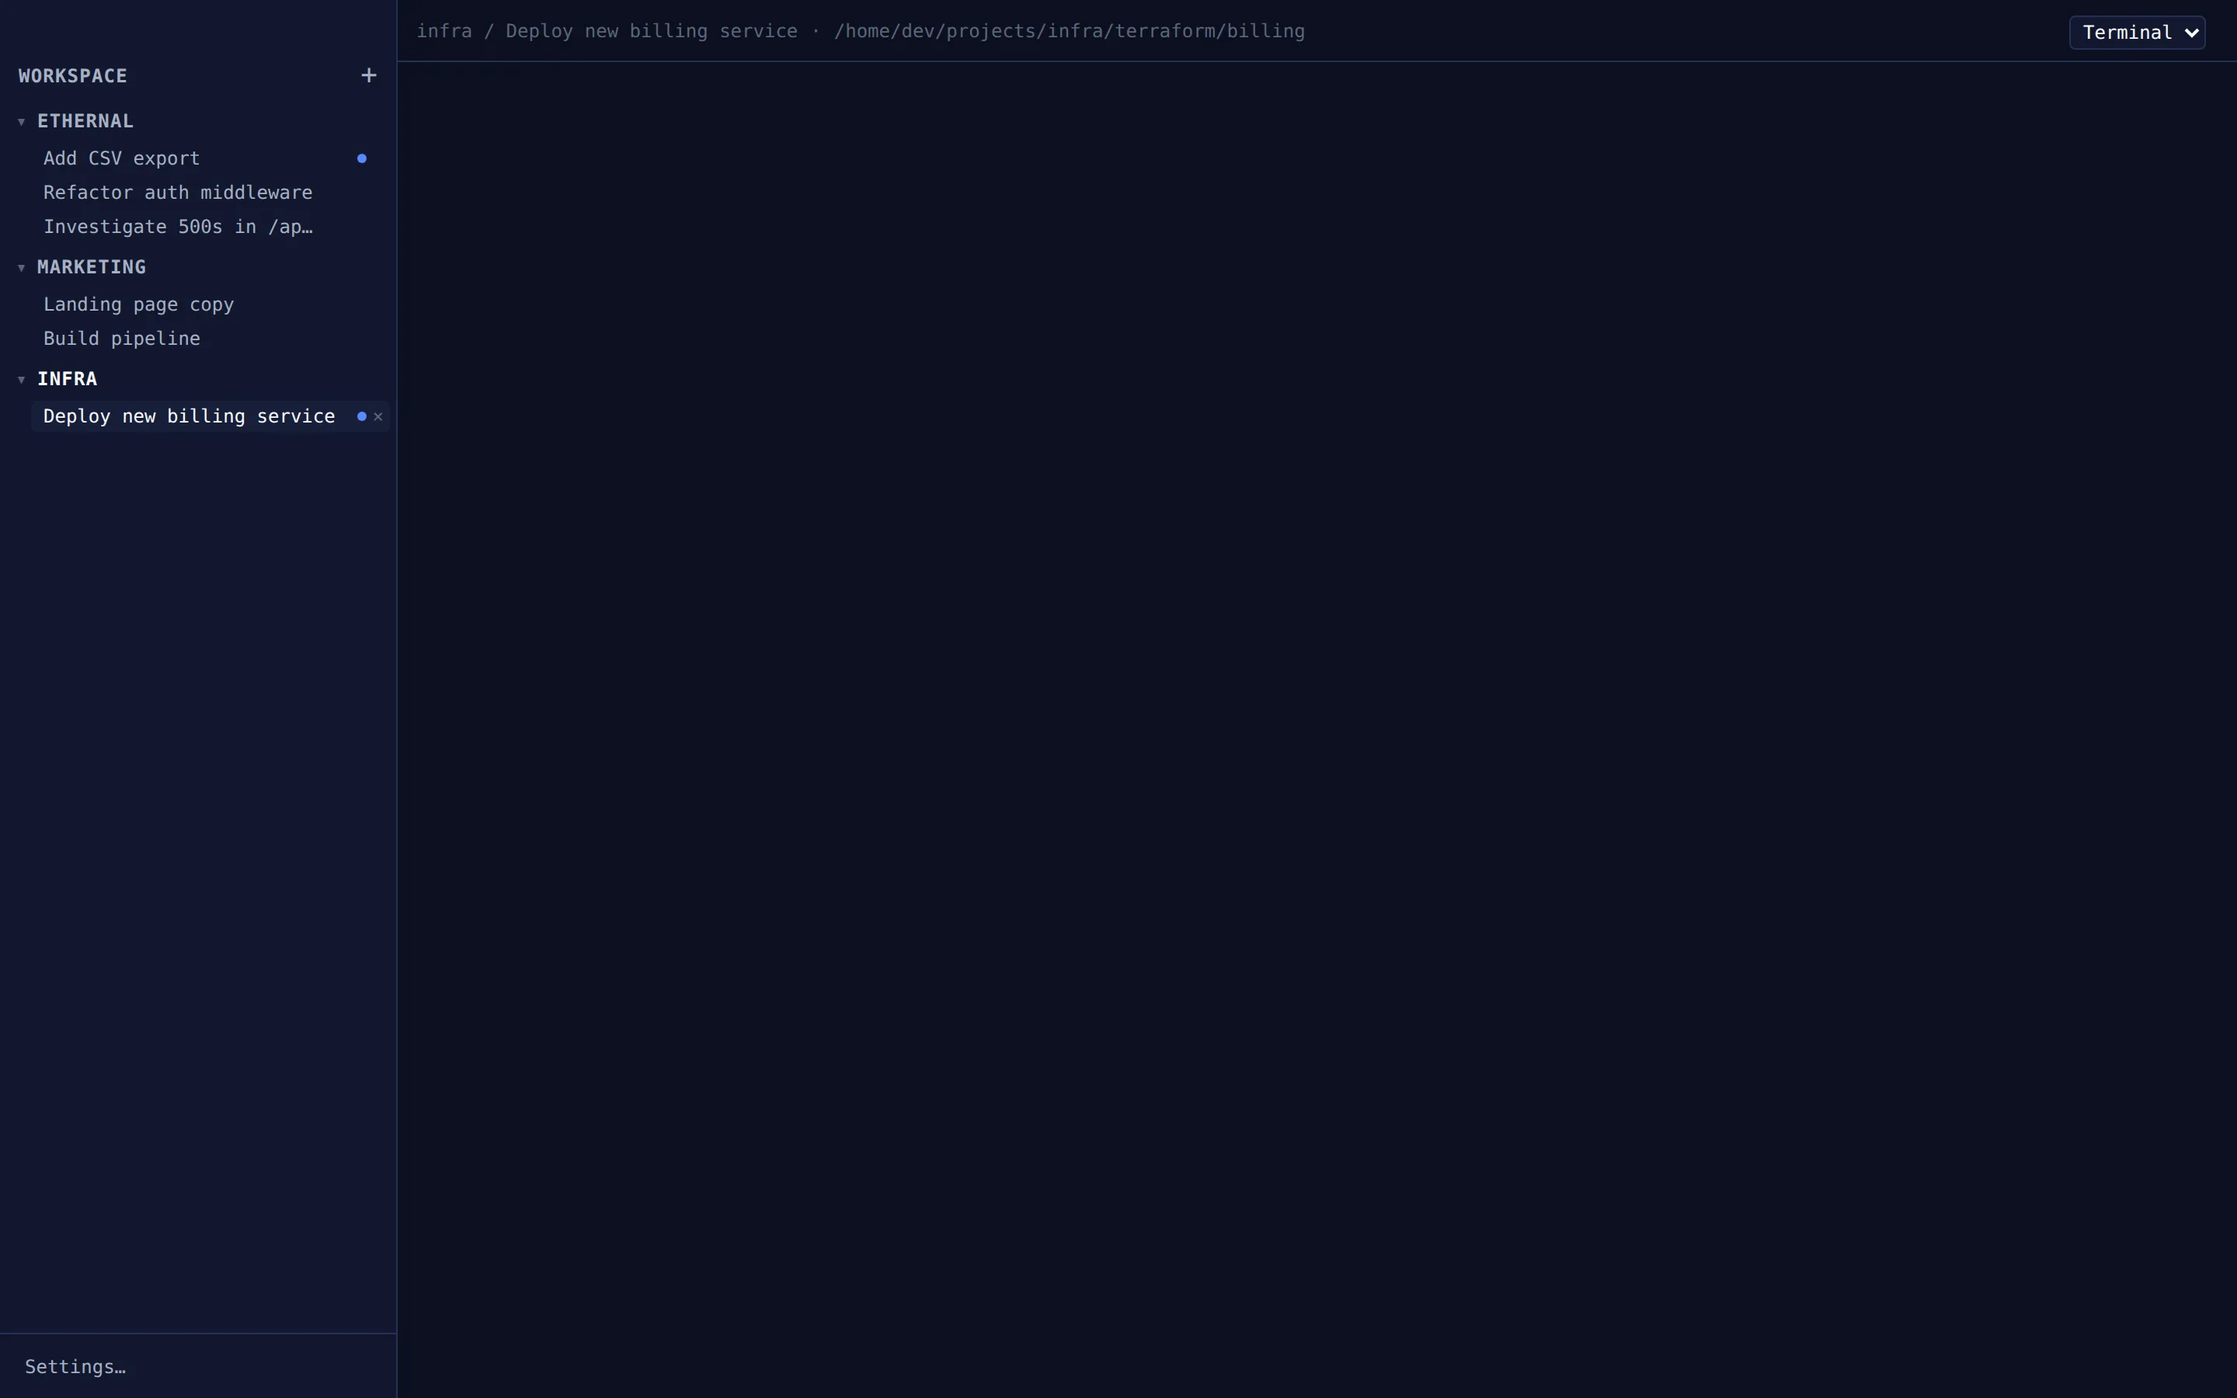
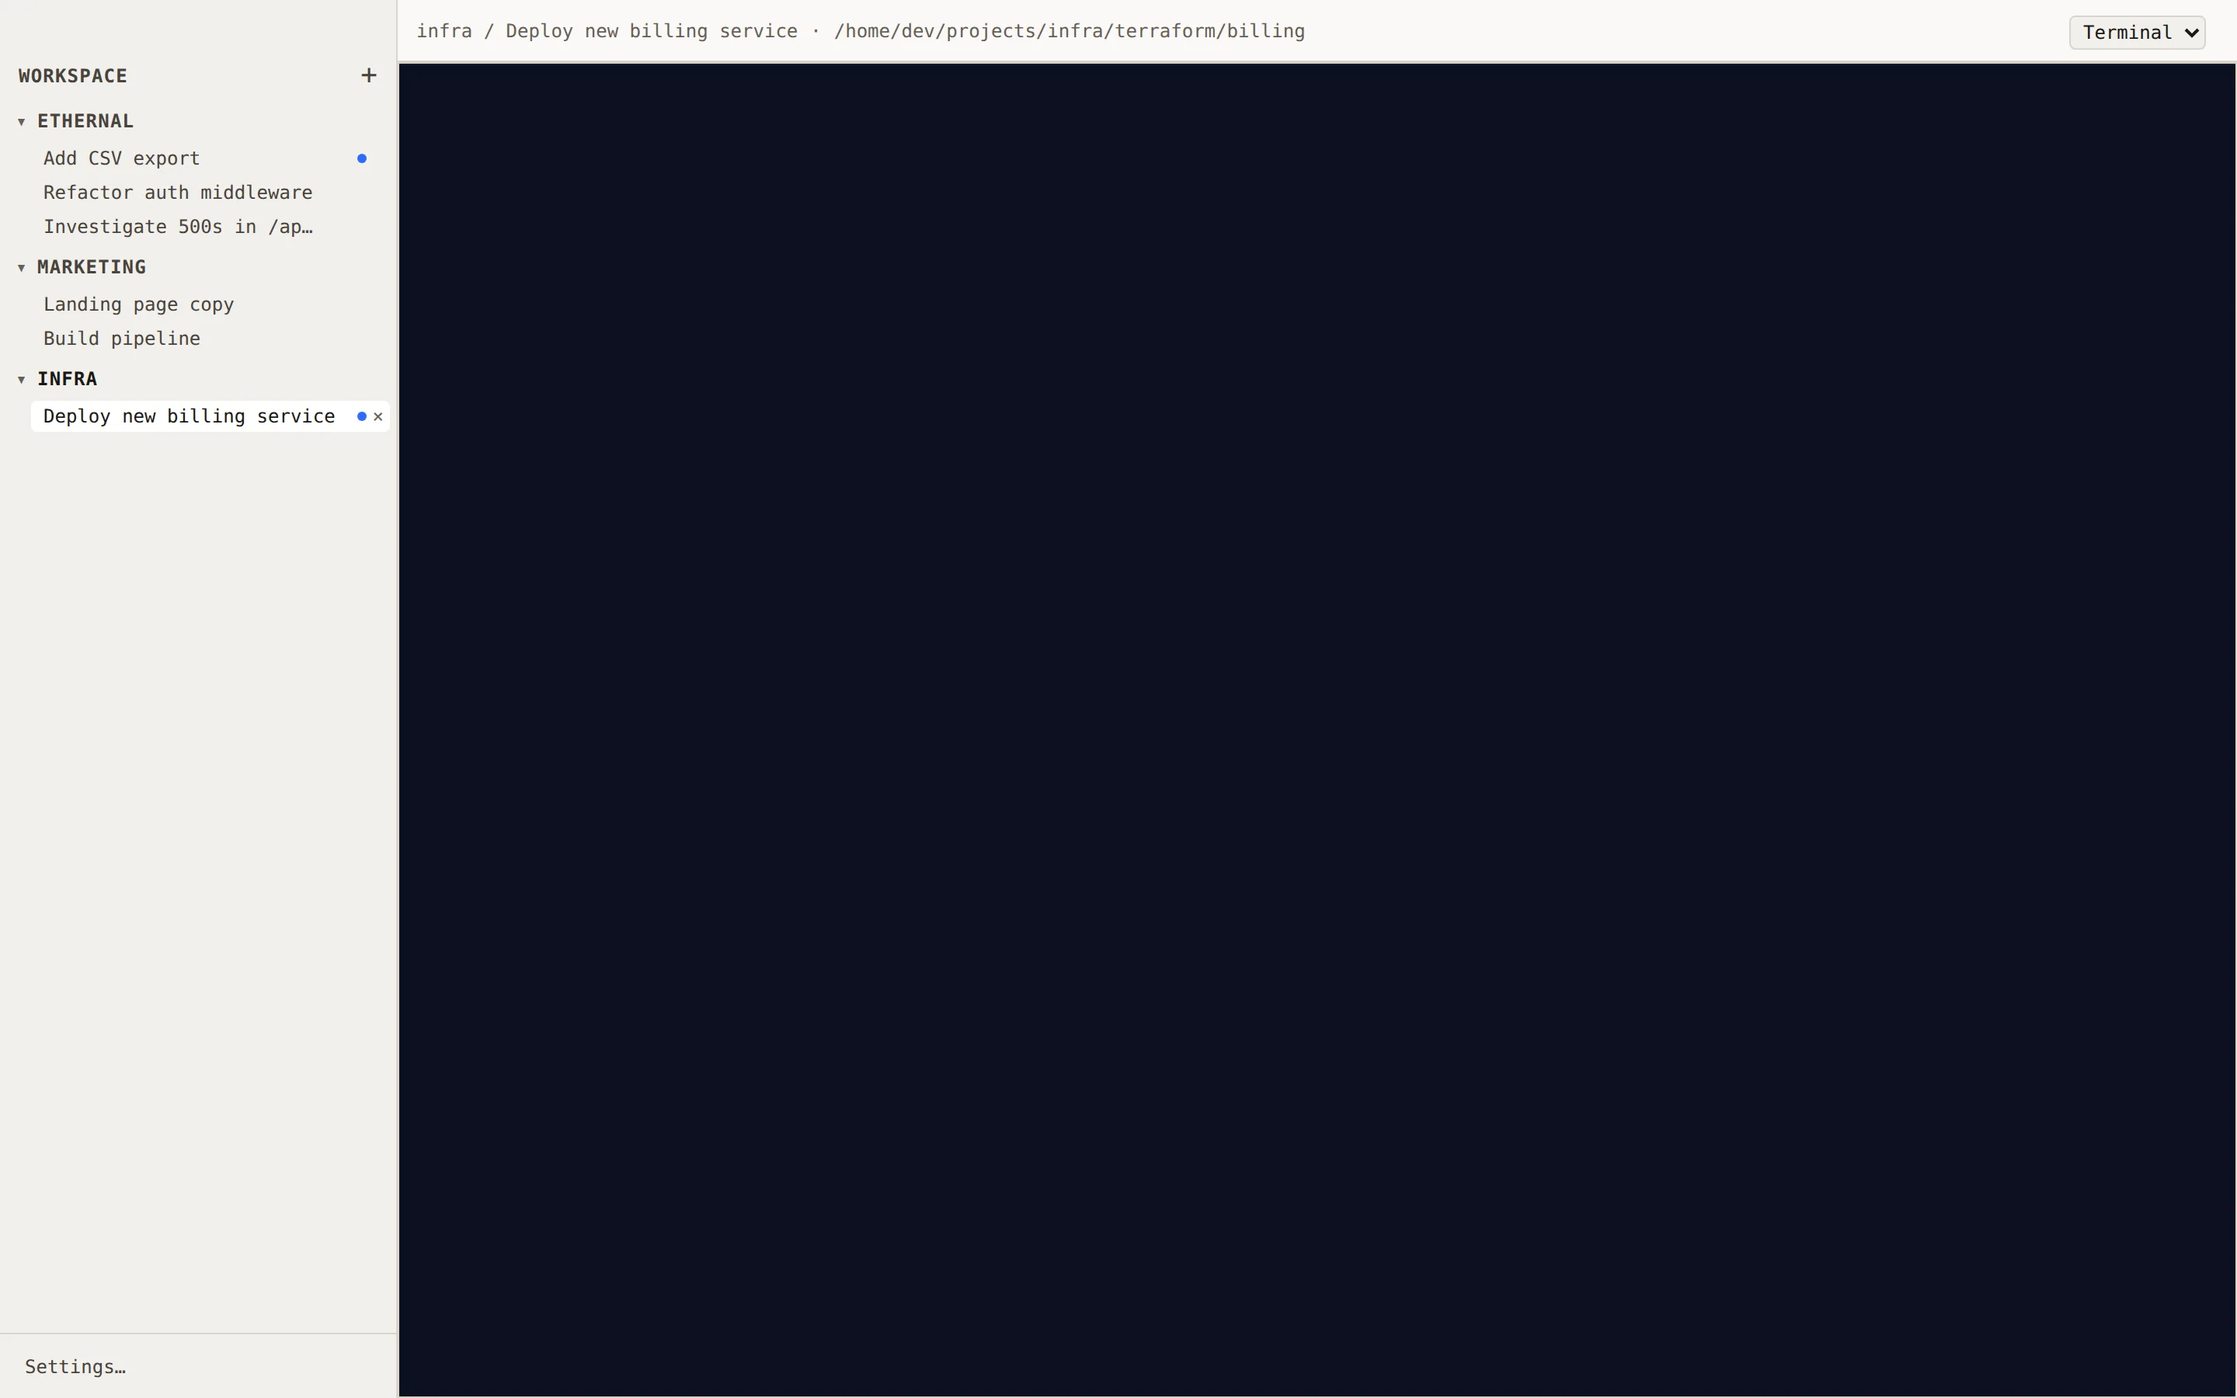
fix(renderer): regenerate drifted shots + de-duplicate Settings/MobileSettings (BET-409)
PM bounce-back: typecheck-test (required) failed on the drift gate, and
duplication-gate (advisory) flagged 3 clones between Settings.tsx and
MobileSettings.tsx.

1. Drift gate (hard blocker): ran 'npm run shots' to regenerate the 6
   committed website/shot-*.webp screenshots — the light theme changes
   how the renderer paints, so the committed shots had drifted.

2. Duplication gate (advisory): extracted 3 pre-existing clones into
   shared modules so both Settings surfaces import from one source:
   - TtlToggle.tsx: the prompt-cache TTL segmented toggle (25-line clone)
   - settingsShared.ts: useLaunchers() hook (launchersList fetch),
     updateLauncherFlag() pure function, useRegistryUrls() hook
     (registry URL list + add/remove).
   Both files now import these instead of inlining the duplicated code.
   No Settings UI restructuring (deferred to sub-issue 14).

Changed region(s): [[0.0, 0.0, 1.0, 1.0]]

diff --git a/src/renderer/Settings.tsx b/src/renderer/Settings.tsx
@@ -7,9 +7,14 @@ import { PairingQR, PairingCountdown } from "./PairingQR";
 import { getMantaPreload } from "./preloadAccess";
 import { resolveLauncherFlags } from "./chatShared";
 import { applyTheme, type ThemePref } from "./theme";
+import { TtlToggle } from "./TtlToggle";
+import {
+  useLaunchers,
+  updateLauncherFlag,
+  useRegistryUrls,
+} from "./settingsShared";
 import type {
   AuthPairResult,
-  AvailableLauncher,
   PluginRegistryRow,
 } from "../shared/types";
 
@@ -52,12 +57,18 @@ export function Settings({ onClose }: { onClose: () => void }) {
   // AI fields (AI tab)
   // Note: the model list, default model, and toggles for Main/Sub all live
   // inside `ModelsCard` now (BET-215) — Settings no longer owns that state.
-  const [registryUrls, setRegistryUrls] = useState<string[]>(skillRegistryUrls ?? []);
-  const [newRegistryUrl, setNewRegistryUrl] = useState("");
+  const {
+    registryUrls,
+    setRegistryUrls,
+    newRegistryUrl,
+    setNewRegistryUrl,
+    addRegistryUrl,
+    removeRegistryUrl,
+  } = useRegistryUrls(skillRegistryUrls ?? []);
   const [ttl, setTtl] = useState<"5m" | "1h">(cacheTtl);
   // AI CLI TUI launch options (BET-138 refinement) — flags for launchers
   // detected on this box (e.g. Claude Code's --dangerously-skip-permissions).
-  const [availableLaunchers, setAvailableLaunchers] = useState<AvailableLauncher[]>([]);
+  const [availableLaunchers] = useLaunchers();
   const [launcherFlagValues, setLauncherFlagValues] =
     useState<Record<string, Record<string, boolean>>>(launcherFlags ?? {});
 
@@ -161,23 +172,6 @@ export function Settings({ onClose }: { onClose: () => void }) {
     preload.pluginsGetEnabled().then(setPluginsOn).catch(() => {});
   }, []);
 
-  // Fetch which AI CLI TUIs are set up on this box (non-fatal — an empty list
-  // just hides the launch-options section). Guarded like App.tsx: on an
-  // unpaired / mid-onboarding desktop boot, window.api is still the raw preload
-  // OS-bridge subset (no launchersList) until the http-mode transport swap in
-  // main.tsx completes, so a bare call throws synchronously (the .catch never
-  // sees it — the access itself is the crash).
-  useEffect(() => {
-    if (!window.api.launchersList) {
-      setAvailableLaunchers([]);
-      return;
-    }
-    window.api
-      .launchersList()
-      .then((list) => setAvailableLaunchers(list))
-      .catch(() => {});
-  }, []);
-
   // Fetch the installed-plugins list when the Plugins tab is open, and
   // re-fetch every 10s while it stays open (the ScheduledTasksCard poll
   // pattern — no bus event because the Mac executor publishes via PUT,
@@ -207,12 +201,9 @@ export function Settings({ onClose }: { onClose: () => void }) {
   }, [activeTab]);
 
   const setLauncherFlag = (launcherId: string, flagKey: string, checked: boolean) => {
-    const l = availableLaunchers.find((x) => x.id === launcherId);
-    if (!l) return;
-    setLauncherFlagValues((prev) => ({
-      ...prev,
-      [launcherId]: { ...resolveLauncherFlags(l.flags, prev[launcherId]), [flagKey]: checked },
-    }));
+    setLauncherFlagValues((prev) =>
+      updateLauncherFlag(availableLaunchers, launcherId, flagKey, checked, prev),
+    );
   };
 
   const [saving, setSaving] = useState(false);
@@ -264,17 +255,6 @@ export function Settings({ onClose }: { onClose: () => void }) {
     }
     setSaving(false);
     onClose();
-  };
-
-  const addRegistryUrl = () => {
-    const url = newRegistryUrl.trim();
-    if (!url || registryUrls.includes(url)) return;
-    setRegistryUrls([...registryUrls, url]);
-    setNewRegistryUrl("");
-  };
-
-  const removeRegistryUrl = (url: string) => {
-    setRegistryUrls(registryUrls.filter((u) => u !== url));
   };
 
   // Mint a one-time pairing code for mobile device pairing. The code is valid
@@ -544,30 +524,7 @@ export function Settings({ onClose }: { onClose: () => void }) {
 
               <div className="border-t border-border pt-6">
                 <h3 className="text-base font-semibold mb-4">Prompt cache TTL</h3>
-                <div className="flex gap-2">
-                  <button
-                    type="button"
-                    onClick={() => setTtl("5m")}
-                    className={`flex-1 px-4 py-2 text-sm rounded border ${
-                      ttl === "5m"
-                        ? "bg-accent-solid text-on-accent border-accent"
-                        : "bg-bg-soft text-text-muted border-border hover:text-text"
-                    }`}
-                  >
-                    5 minutes
-                  </button>
-                  <button
-                    type="button"
-                    onClick={() => setTtl("1h")}
-                    className={`flex-1 px-4 py-2 text-sm rounded border ${
-                      ttl === "1h"
-                        ? "bg-accent-solid text-on-accent border-accent"
-                        : "bg-bg-soft text-text-muted border-border hover:text-text"
-                    }`}
-                  >
-                    1 hour (default)
-                  </button>
-                </div>
+                <TtlToggle ttl={ttl} setTtl={setTtl} />
                 <div className="text-xs text-text-faint mt-2">
                   How long Anthropic keeps a session's prompt cache warm between
                   requests. Used to predict when a session has gone stale and show

diff --git a/src/renderer/mobile/MobileSettings.tsx b/src/renderer/mobile/MobileSettings.tsx
@@ -3,7 +3,13 @@ import { useStore } from "../store";
 import { ProvidersCard } from "../ProvidersCard";
 import { SubscriptionsCard } from "../SubscriptionsCard";
 import { resolveLauncherFlags } from "../chatShared";
-import type { AvailableLauncher, OpencodeModel } from "../../shared/types";
+import { TtlToggle } from "../TtlToggle";
+import {
+  useLaunchers,
+  updateLauncherFlag,
+  useRegistryUrls,
+} from "../settingsShared";
+import type { OpencodeModel } from "../../shared/types";
 import {
   isPushSupported,
   pushPermission,
@@ -66,10 +72,14 @@ export function MobileSettings({ onClose }: Props) {
     modelID: string;
   } | null>(defaultModel ?? null);
   const [ttl, setTtl] = useState<"5m" | "1h">(cacheTtl);
-  const [registryUrls, setRegistryUrls] = useState<string[]>(
-    skillRegistryUrls ?? [],
-  );
-  const [newRegistryUrl, setNewRegistryUrl] = useState("");
+  const {
+    registryUrls,
+    setRegistryUrls,
+    newRegistryUrl,
+    setNewRegistryUrl,
+    addRegistryUrl,
+    removeRegistryUrl,
+  } = useRegistryUrls(skillRegistryUrls ?? []);
   const [models, setModels] = useState<OpencodeModel[] | null>(null);
   const [saving, setSaving] = useState(false);
   const [savedToast, setSavedToast] = useState(false);
@@ -78,7 +88,7 @@ export function MobileSettings({ onClose }: Props) {
   const [voiceTrModel, setVoiceTrModel] = useState(voiceTranscriptionModel);
   const [voiceCmdModel, setVoiceCmdModel] = useState(voiceCommandModel);
   // AI CLI TUI launch options (BET-138 refinement) — mirrors desktop Settings.
-  const [availableLaunchers, setAvailableLaunchers] = useState<AvailableLauncher[]>([]);
+  const [availableLaunchers] = useLaunchers();
   const [launcherFlagValues, setLauncherFlagValues] =
     useState<Record<string, Record<string, boolean>>>(launcherFlags ?? {});
 
@@ -170,19 +180,6 @@ export function MobileSettings({ onClose }: Props) {
       .catch(() => {});
   }, []);
 
-  // Which AI CLI TUIs are set up on this box — non-fatal, an empty list just
-  // hides the launch-options section below.
-  useEffect(() => {
-    if (!window.api.launchersList) {
-      setAvailableLaunchers([]);
-      return;
-    }
-    window.api
-      .launchersList()
-      .then((list) => setAvailableLaunchers(list))
-      .catch(() => {});
-  }, []);
-
   // Server version (BET-180) — fetch once on mount so the URL section can
   // render `Server vX.Y.Z` below its hint. In-process via the
   // `server:version` RPC channel; failure stays null → "?" placeholder.
@@ -194,12 +191,9 @@ export function MobileSettings({ onClose }: Props) {
   }, []);
 
   const setLauncherFlag = (launcherId: string, flagKey: string, checked: boolean) => {
-    const l = availableLaunchers.find((x) => x.id === launcherId);
-    if (!l) return;
-    setLauncherFlagValues((prev) => ({
-      ...prev,
-      [launcherId]: { ...resolveLauncherFlags(l.flags, prev[launcherId]), [flagKey]: checked },
-    }));
+    setLauncherFlagValues((prev) =>
+      updateLauncherFlag(availableLaunchers, launcherId, flagKey, checked, prev),
+    );
   };
 
   const save = async () => {
@@ -235,16 +229,6 @@ export function MobileSettings({ onClose }: Props) {
     } finally {
       setSaving(false);
     }
-  };
-
-  const addRegistryUrl = () => {
-    const url = newRegistryUrl.trim();
-    if (!url || registryUrls.includes(url)) return;
-    setRegistryUrls([...registryUrls, url]);
-    setNewRegistryUrl("");
-  };
-  const removeRegistryUrl = (url: string) => {
-    setRegistryUrls(registryUrls.filter((u) => u !== url));
   };
 
   return (
@@ -419,30 +403,7 @@ export function MobileSettings({ onClose }: Props) {
           <label className="block text-[11px] uppercase tracking-wider text-text-muted">
             Prompt cache TTL
           </label>
-          <div className="flex gap-2">
-            <button
-              type="button"
-              onClick={() => setTtl("5m")}
-              className={`flex-1 px-3 py-2 text-sm rounded border ${
-                ttl === "5m"
-                  ? "bg-accent-solid text-on-accent border-accent"
-                  : "bg-bg-soft text-text-muted border-border"
-              }`}
-            >
-              5 minutes
-            </button>
-            <button
-              type="button"
-              onClick={() => setTtl("1h")}
-              className={`flex-1 px-3 py-2 text-sm rounded border ${
-                ttl === "1h"
-                  ? "bg-accent-solid text-on-accent border-accent"
-                  : "bg-bg-soft text-text-muted border-border"
-              }`}
-            >
-              1 hour
-            </button>
-          </div>
+          <TtlToggle ttl={ttl} setTtl={setTtl} compact />
           <div className="text-xs text-text-faint">
             Must match opencode's <code className="text-text-muted">cache_control.ttl</code> —
             manta only uses this to predict when a chat has gone stale (drives

diff --git a/src/renderer/settingsShared.ts b/src/renderer/settingsShared.ts
@@ -1,0 +1,86 @@
+import { useEffect, useState } from "react";
+import type { AvailableLauncher } from "../shared/types";
+import { resolveLauncherFlags } from "./chatShared";
+
+/**
+ * Shared settings logic used by both desktop Settings.tsx and mobile
+ * MobileSettings.tsx (BET-409 — extracted to clear the duplication gate).
+ * These hooks/functions are code-organization extractions, NOT Settings UI
+ * restructuring (which is deferred to sub-issue 14).
+ */
+
+/**
+ * Fetch the AI CLI TUI launchers available on this box. Non-fatal — an empty
+ * list just hides the launch-options section. Guarded: on an unpaired /
+ * mid-onboarding boot, window.api may still be the raw preload OS-bridge subset
+ * (no launchersList) until the http-mode transport swap completes, so a bare
+ * call would throw synchronously.
+ */
+export function useLaunchers(): [
+  AvailableLauncher[],
+  React.Dispatch<React.SetStateAction<AvailableLauncher[]>>,
+] {
+  const [available, setAvailable] = useState<AvailableLauncher[]>([]);
+  useEffect(() => {
+    if (!window.api.launchersList) {
+      setAvailable([]);
+      return;
+    }
+    window.api
+      .launchersList()
+      .then((list) => setAvailable(list))
+      .catch(() => {});
+  }, []);
+  return [available, setAvailable];
+}
+
+/**
+ * Pure updater for a single launcher flag. Used inside a setState callback:
+ * `setLauncherFlagValues((prev) => updateLauncherFlag(available, id, key, val, prev))`.
+ */
+export function updateLauncherFlag(
+  launchers: AvailableLauncher[],
+  launcherId: string,
+  flagKey: string,
+  checked: boolean,
+  prev: Record<string, Record<string, boolean>>,
+): Record<string, Record<string, boolean>> {
+  const l = launchers.find((x) => x.id === launcherId);
+  if (!l) return prev;
+  return {
+    ...prev,
+    [launcherId]: {
+      ...resolveLauncherFlags(l.flags, prev[launcherId]),
+      [flagKey]: checked,
+    },
+  };
+}
+
+/**
+ * Manages the skill-registry-URL list + the "add new URL" input. Shared by
+ * desktop and mobile settings — identical state shape and add/remove logic.
+ */
+export function useRegistryUrls(initial: string[]) {
+  const [registryUrls, setRegistryUrls] = useState<string[]>(initial);
+  const [newRegistryUrl, setNewRegistryUrl] = useState("");
+
+  const addRegistryUrl = () => {
+    const url = newRegistryUrl.trim();
+    if (!url || registryUrls.includes(url)) return;
+    setRegistryUrls([...registryUrls, url]);
+    setNewRegistryUrl("");
+  };
+
+  const removeRegistryUrl = (url: string) => {
+    setRegistryUrls(registryUrls.filter((u) => u !== url));
+  };
+
+  return {
+    registryUrls,
+    setRegistryUrls,
+    newRegistryUrl,
+    setNewRegistryUrl,
+    addRegistryUrl,
+    removeRegistryUrl,
+  };
+}

diff --git a/src/renderer/TtlToggle.tsx b/src/renderer/TtlToggle.tsx
@@ -1,0 +1,43 @@
+type Props = {
+  ttl: "5m" | "1h";
+  setTtl: (v: "5m" | "1h") => void;
+  // Mobile (compact) uses px-3 and no hover; desktop uses px-4 + hover:text-text
+  // on the unselected state, and labels the 1h option "1 hour (default)".
+  compact?: boolean;
+};
+
+/**
+ * Prompt-cache TTL segmented toggle — shared by desktop Settings and mobile
+ * MobileSettings. Extracted (BET-409) to clear the duplication gate: both
+ * surfaces rendered the same two-button pair with the same selected/unselected
+ * class conditional, diverging only in padding, hover, and the hour label.
+ */
+export function TtlToggle({ ttl, setTtl, compact = false }: Props) {
+  const pad = compact ? "px-3" : "px-4";
+  const hover = compact ? "" : "hover:text-text";
+  const hourLabel = compact ? "1 hour" : "1 hour (default)";
+  const selected = "bg-accent-solid text-on-accent border-accent";
+  const unselected = `bg-bg-soft text-text-muted border-border ${hover}`;
+  return (
+    <div className="flex gap-2">
+      <button
+        type="button"
+        onClick={() => setTtl("5m")}
+        className={`flex-1 ${pad} py-2 text-sm rounded border ${
+          ttl === "5m" ? selected : unselected
+        }`}
+      >
+        5 minutes
+      </button>
+      <button
+        type="button"
+        onClick={() => setTtl("1h")}
+        className={`flex-1 ${pad} py-2 text-sm rounded border ${
+          ttl === "1h" ? selected : unselected
+        }`}
+      >
+        {hourLabel}
+      </button>
+    </div>
+  );
+}
